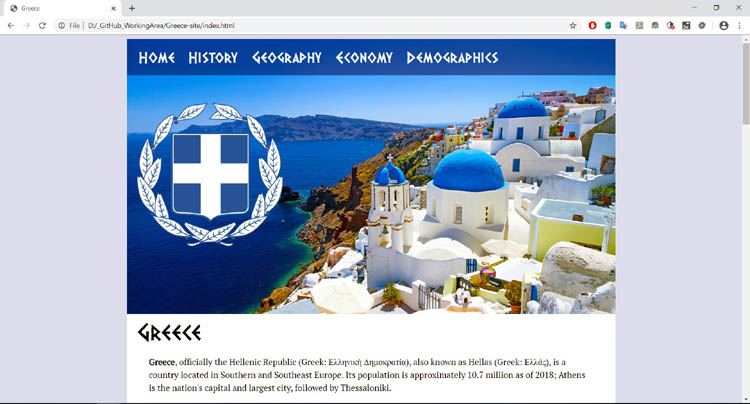
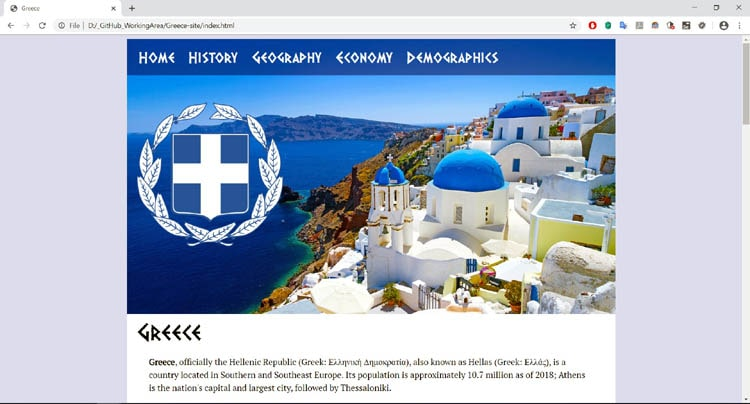
compress jpg, add new project: ShortUrl

diff --git a/index.html b/index.html
@@ -220,7 +220,7 @@
                 </div>
                 <div class="slide">
                   <h1>
-                    <a href="https://github.com/Den79/RecruitmentSystem_front_end" target="_blank"><i style="font-size: 35px" class="fa fa-github fa-2x"></i></a>
+                    <a href="https://github.com/denismaltev/RecruitmentSystem_front_end" target="_blank"><i style="font-size: 35px" class="fa fa-github fa-2x"></i></a>
                     RECRUITMENT SYSTEM
                   </h1>
                   <p>ReactJS, .Net, C#, SQLite </p>
@@ -228,7 +228,15 @@
                 </div>
                 <div class="slide">
                   <h1>
-                    <a href="https://github.com/Den79/AssignmentTracker_Client" target="_blank"><i style="font-size: 35px" class="fa fa-github fa-2x"></i></a>
+                    <a href="https://github.com/denismaltev/ShortURL_MERN" target="_blank"><i style="font-size: 35px" class="fa fa-github fa-2x"></i></a>
+                    SHORT URL
+                  </h1>
+                  <p>ReactJS, NodeJS, Express, MongoDB, Materialize</p>
+                  <a target="_blank" href="https://shorturl-client.herokuapp.com/"><img id="portfolio_img" src="./images/portfolio/8.jpg"></a>
+                </div>
+                <div class="slide">
+                  <h1>
+                    <a href="https://github.com/denismaltev/AssignmentTracker_Client" target="_blank"><i style="font-size: 35px" class="fa fa-github fa-2x"></i></a>
                     ASSIGNMENTS TRACKER
                   </h1>
                   <p>ReactJS, NodeJS, Express, MongoDB, FireBase</p>
@@ -236,7 +244,7 @@
                 </div>
                 <div class="slide">
                   <h1>
-                    <a href="https://github.com/Den79/Angular_ToDoListApp" target="_blank"><i style="font-size: 35px" class="fa fa-github fa-2x"></i></a>
+                    <a href="https://github.com/denismaltev/Angular_ToDoListApp" target="_blank"><i style="font-size: 35px" class="fa fa-github fa-2x"></i></a>
                     TO-DO-LIST
                   </h1>
                   <p> Training project: Angular</p>
@@ -249,7 +257,7 @@
                 </div>
                 <div class="slide">
                   <h1>
-                    <a href="https://github.com/Den79/BCIT_SSD_WebSite" target="_blank"><i style="font-size: 35px" class="fa fa-github fa-2x"></i></a>
+                    <a href="https://github.com/denismaltev/BCIT_SSD_WebSite" target="_blank"><i style="font-size: 35px" class="fa fa-github fa-2x"></i></a>
                     RESPONSIVE WEBSITE
                   </h1>
                   <p>HTML/CSS/JS/Bootstrap for BCIT SSD program</p>
